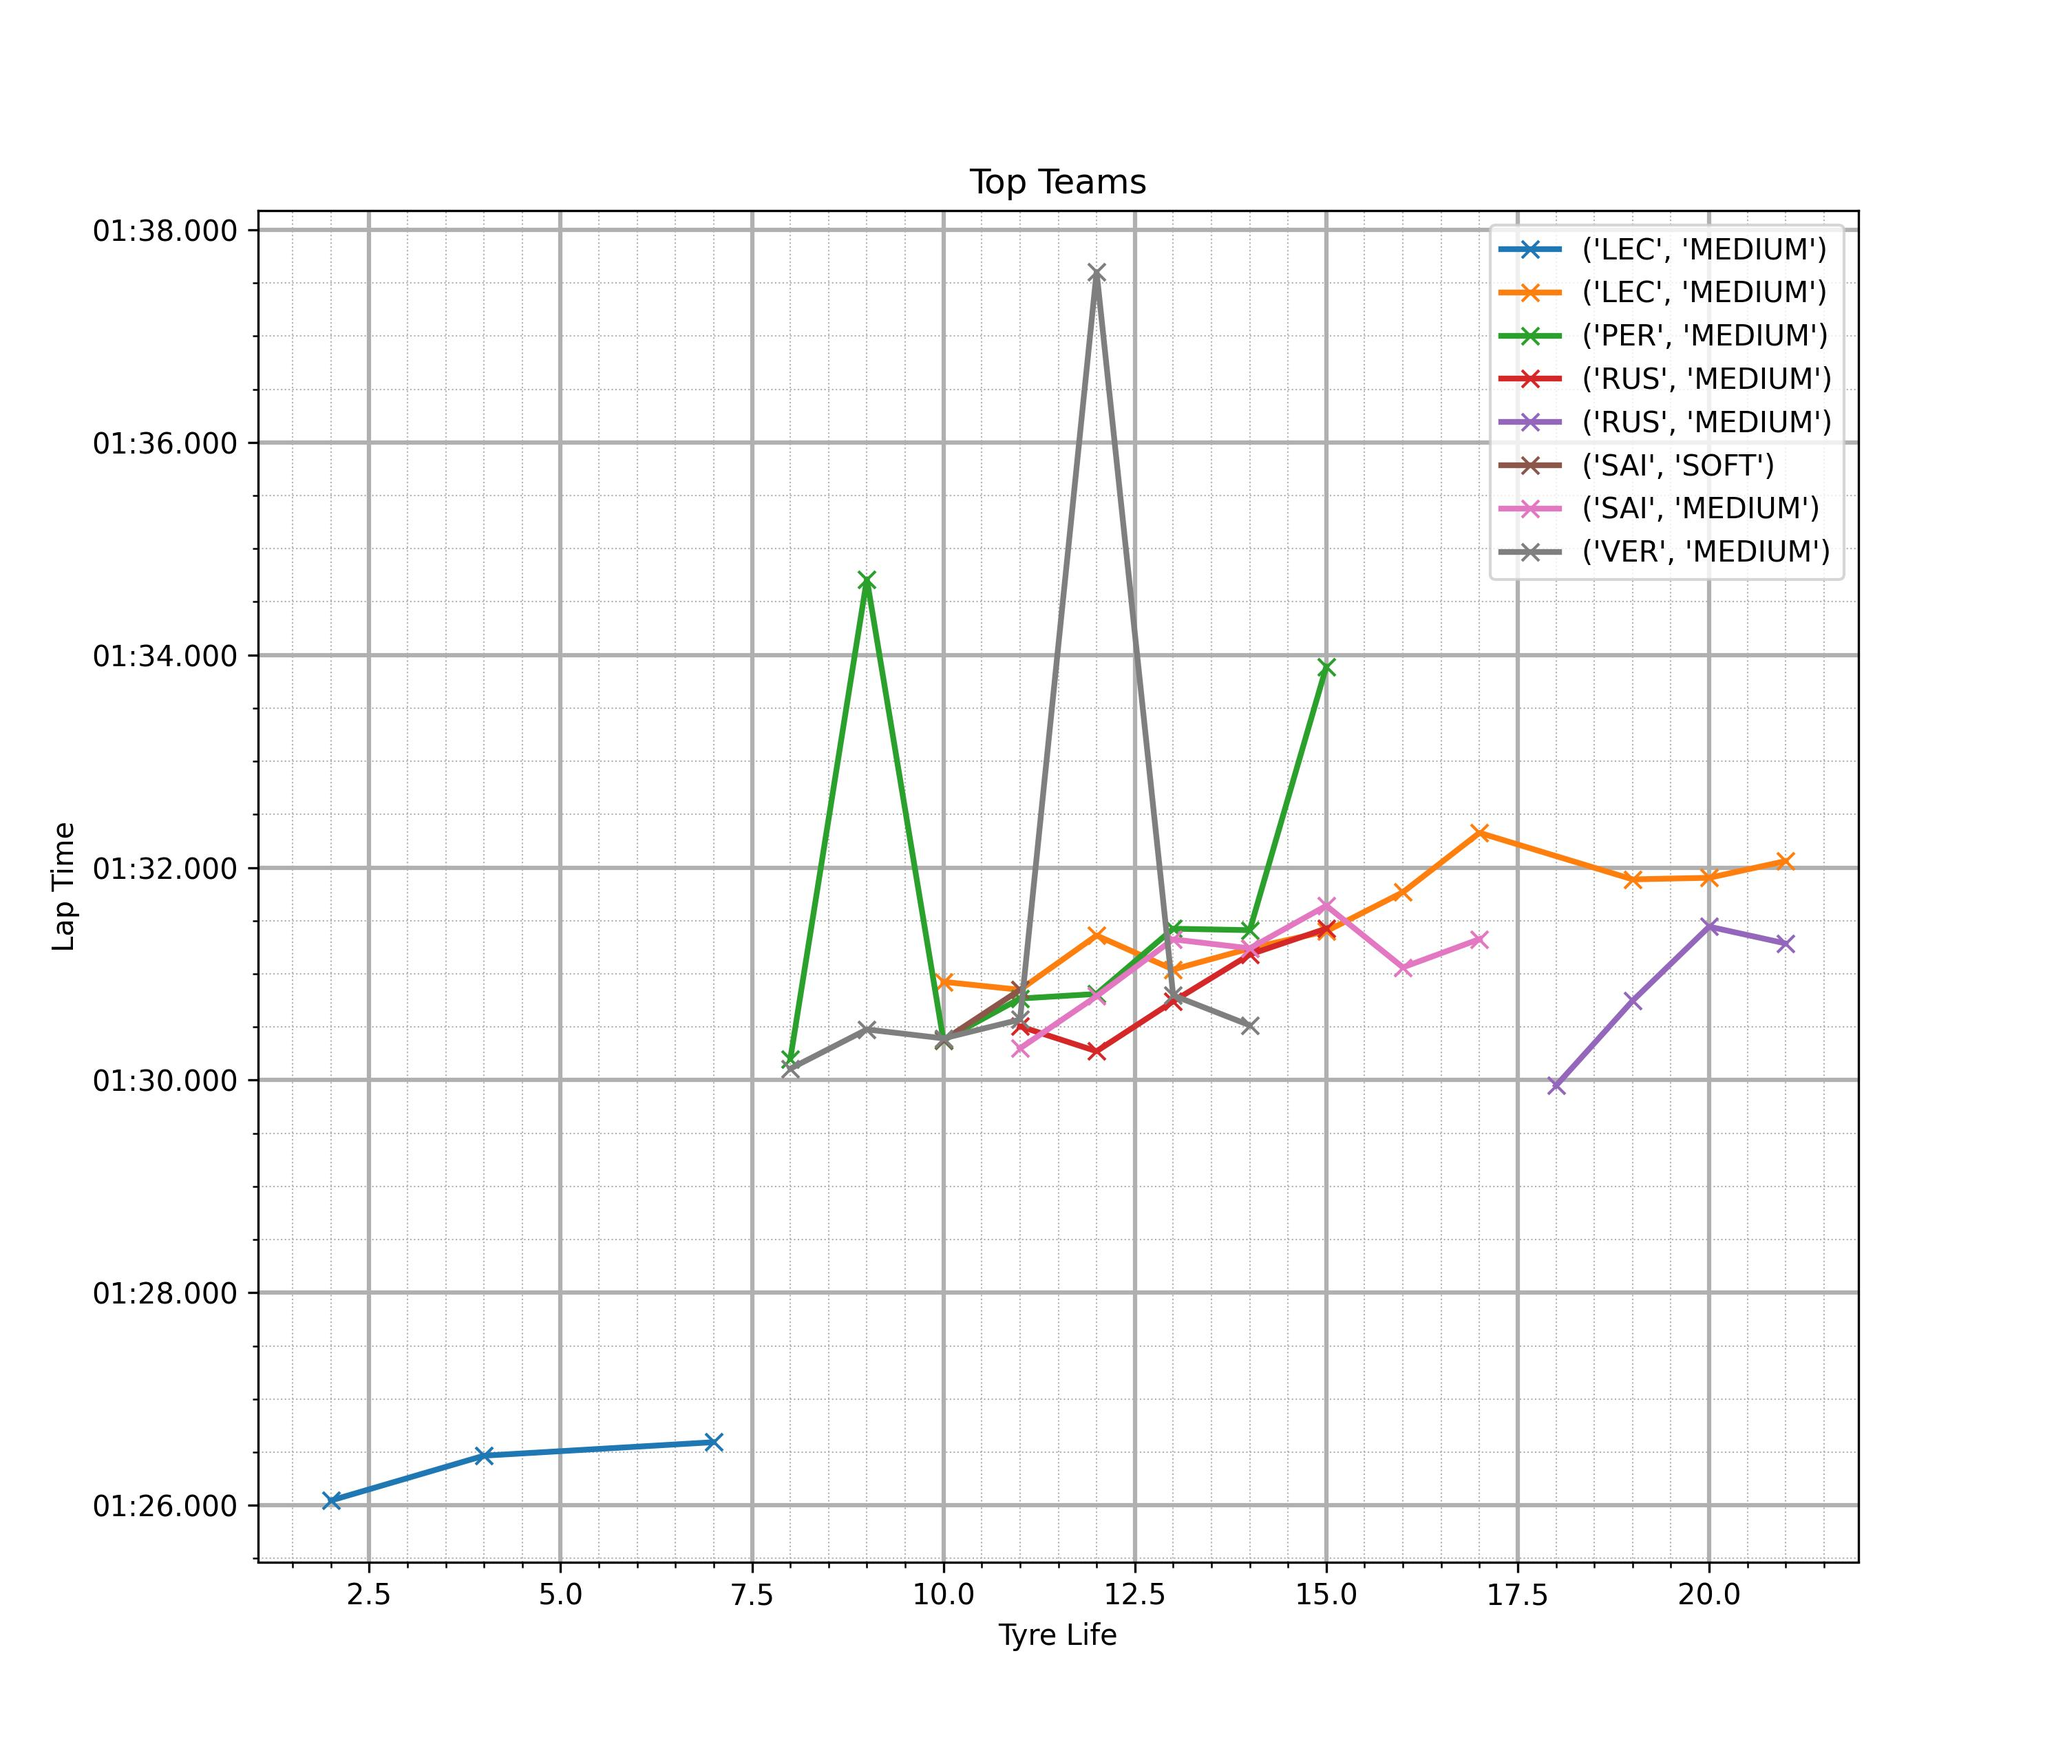
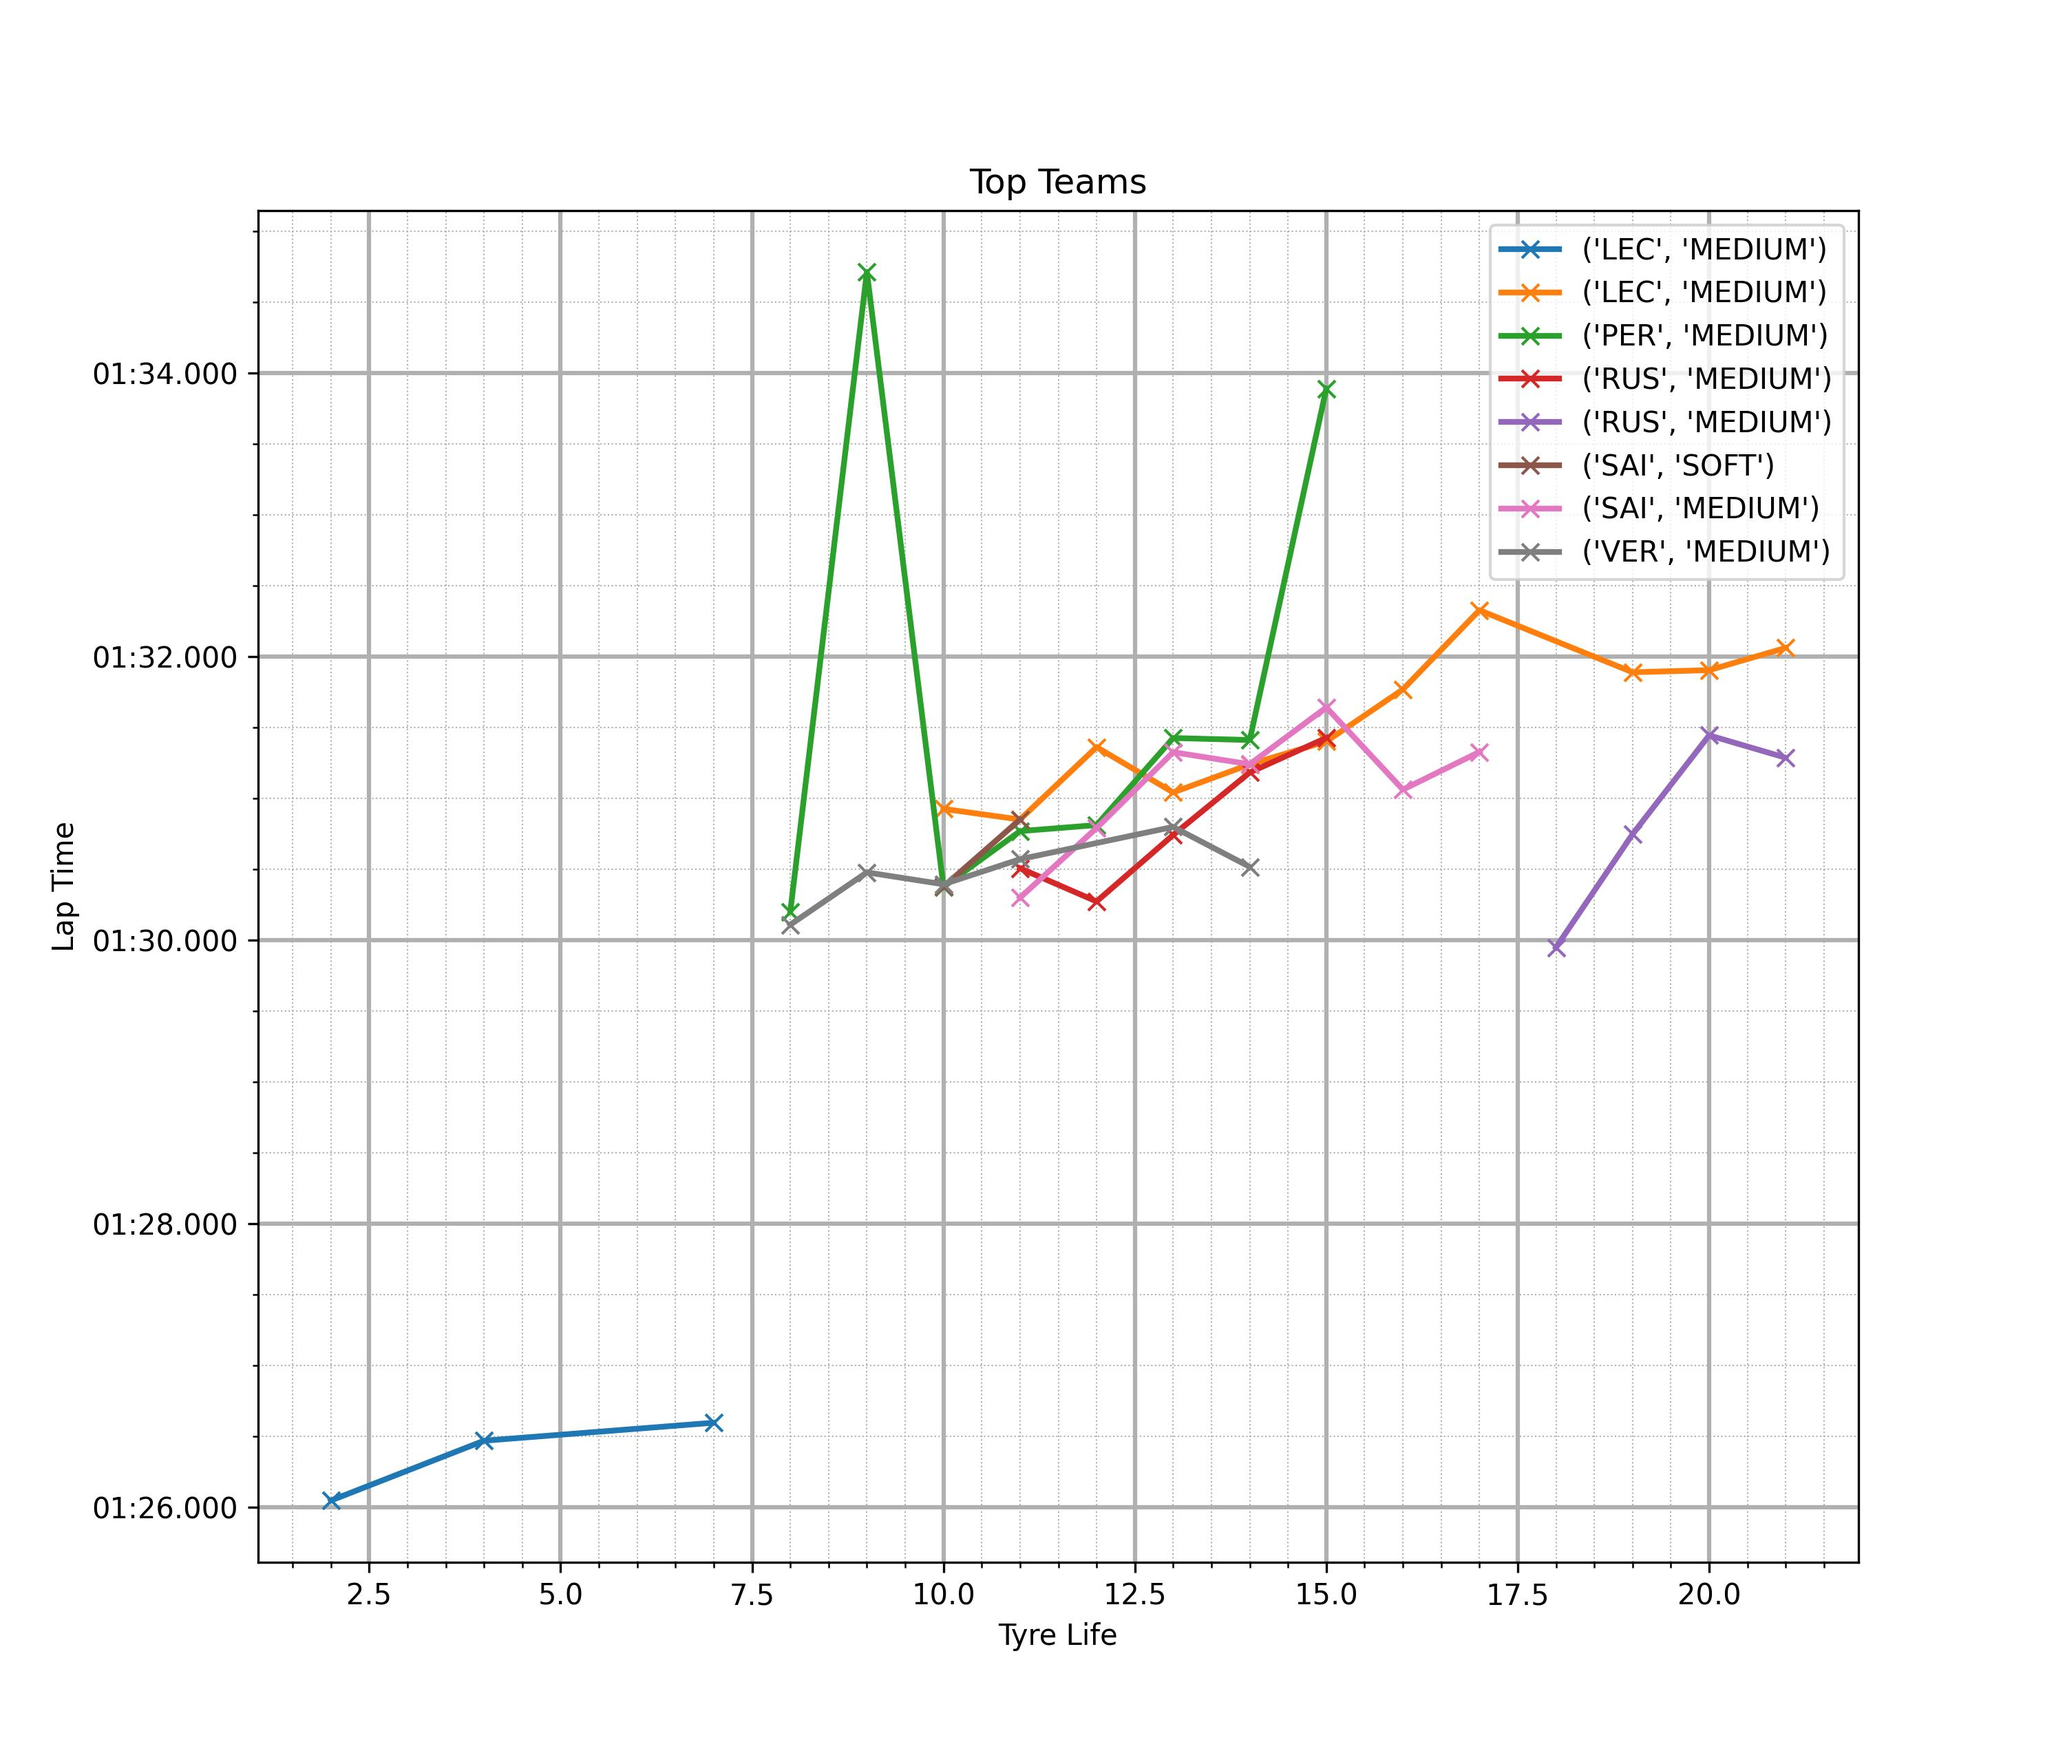
Adjust outlier filter

diff --git a/laptime.py b/laptime.py
@@ -129,7 +129,7 @@ def get_race_runs(lap_times):
     rr_times = pd.merge(race_runs.loc[:, ["Driver", "Stint", "LapTime_std"]], lap_times.loc[:, ["Driver", "Team", "Stint", "LapTime", "TyreLife", "Compound"]], how="inner", on=["Driver", "Stint"])
     
     # Filter outliers 
-    rr_times = rr_times[rr_times.LapTime-rr_times.LapTime.mean() <= 0.5*rr_times.LapTime.std()]
+    rr_times = rr_times[rr_times.LapTime-rr_times.LapTime.mean() <= 0.25*rr_times.LapTime.std()]
     
     return rr_times
 
